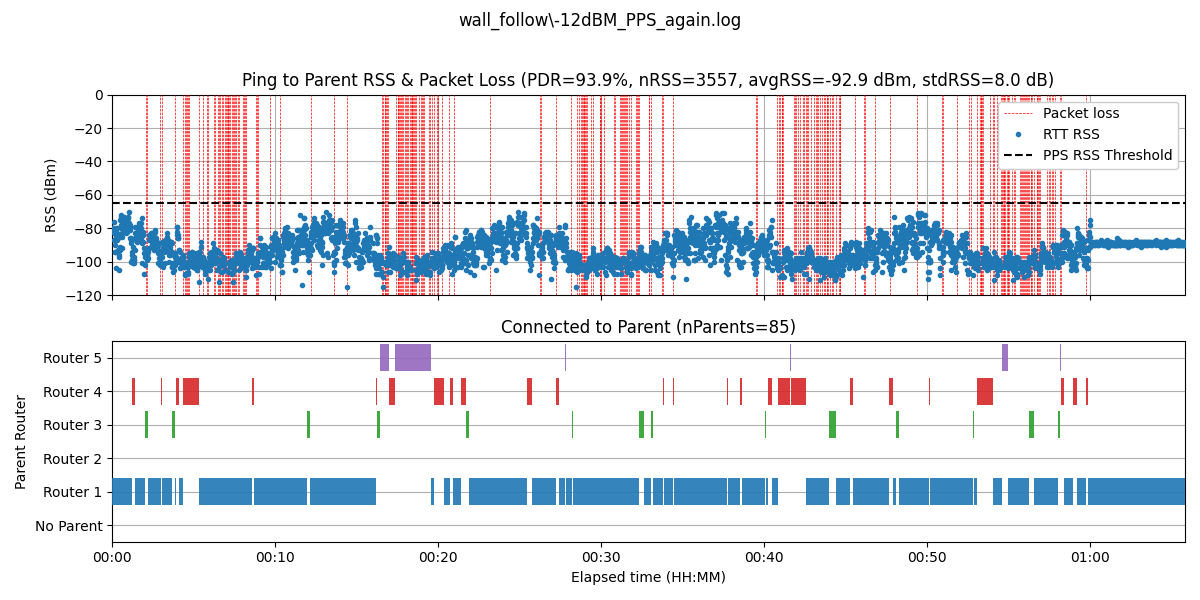
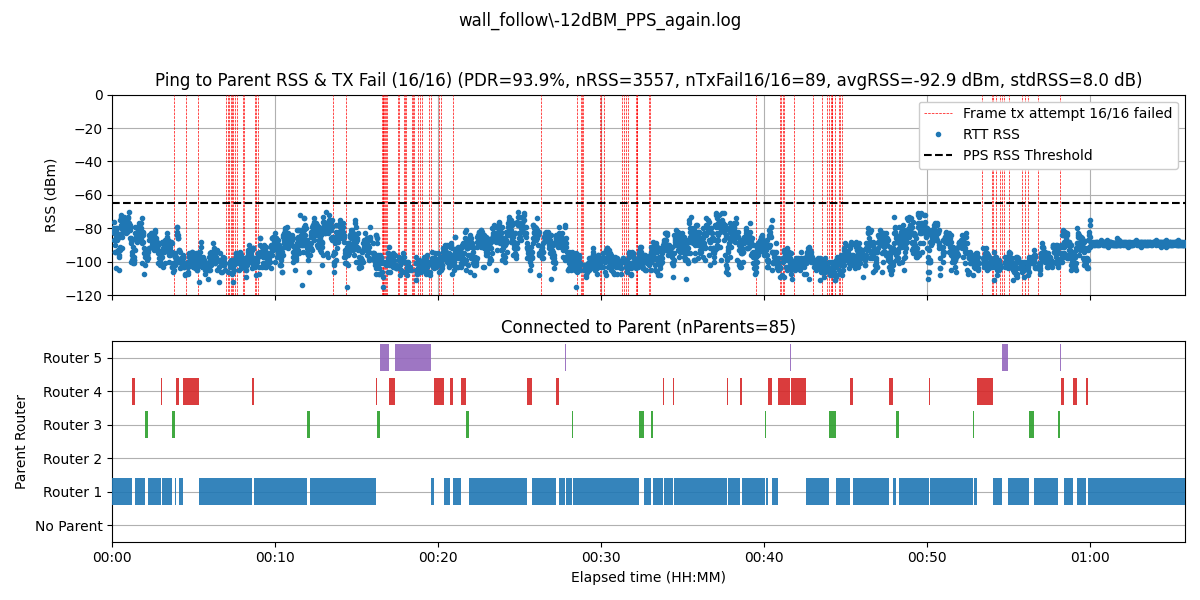
replaced packet loss with 16/16 tx fail

Changed region(s): [[0.1233, 0.12, 0.9867, 0.51], [0.1542, 0.45, 0.2158, 0.51], [0.4625, 0.45, 0.555, 0.48]]

diff --git a/openthread_log_visualizer.py b/openthread_log_visualizer.py
@@ -29,8 +29,8 @@ RSS_YLIM: Optional[Tuple[float, float]] = (-120, 0)  # dBm
 # Horizontal threshold line on RSS subplot
 PPS_RSS_THRESHOLD_DBM: float = -65.0
 
-# Packet-loss "rug" settings (fraction of y-range at the top)
-LOSS_RUG_FRACTION: float = 1  # fraction of y-range at top
+# TX-failed "rug" settings (fraction of y-range at the top)
+TXFAIL_RUG_FRACTION: float = 1  # fraction of y-range at top
 
 # Legend styling
 LEGEND_FRAME_ALPHA: float = 1.0
@@ -47,7 +47,6 @@ TRIM_WINDOW_SECONDS: float = 2 * 60 * 60  # exactly 2 hours
 
 # Toggle: enable/disable the top RTT subplot
 SHOW_RTT_SUBPLOT: bool = False
-
 
 
 # -----------------------------------------------------------------------------
@@ -202,7 +201,9 @@ def _convert_metrics_timestamps_to_relative_seconds(metrics: LogMetrics) -> None
     ts_attr_names = [
         "ping_rtt_timestamps",
         "ping_rss_timestamps",
-        "ping_packet_loss_timestamps",
+        # REPLACED: packet loss timestamps removed from the plot pipeline
+        # "ping_packet_loss_timestamps",
+        "mac_frame_tx_attempt_16_16_failed_timestamps",
         "parent_router_from_rloc16_transition_timestamps",
         "parent_rloc16_from_query_timestamps",
     ]
@@ -328,7 +329,9 @@ def _rebase_timestamps(metrics: LogMetrics, offset: float) -> None:
     ts_attr_names = [
         "ping_rtt_timestamps",
         "ping_rss_timestamps",
-        "ping_packet_loss_timestamps",
+        # REPLACED: packet loss removed from plot pipeline
+        # "ping_packet_loss_timestamps",
+        "mac_frame_tx_attempt_16_16_failed_timestamps",
         "parent_router_from_rloc16_transition_timestamps",
         "parent_rloc16_from_query_timestamps",
     ]
@@ -348,7 +351,7 @@ def _trim_metrics_centered_to_window(metrics: LogMetrics, window_seconds: float)
     ts_attr_names = [
         "ping_rtt_timestamps",
         "ping_rss_timestamps",
-        "ping_packet_loss_timestamps",
+        "mac_frame_tx_attempt_16_16_failed_timestamps",
         "parent_router_from_rloc16_transition_timestamps",
         "parent_rloc16_from_query_timestamps",
     ]
@@ -398,9 +401,9 @@ def _trim_metrics_centered_to_window(metrics: LogMetrics, window_seconds: float)
         window_end,
     )
 
-    # Packet loss (timestamps only)
-    metrics.ping_packet_loss_timestamps = _filter_t(
-        [float(t) for t in getattr(metrics, "ping_packet_loss_timestamps", [])],
+    # TX failed 16/16 (timestamps only)
+    metrics.mac_frame_tx_attempt_16_16_failed_timestamps = _filter_t(
+        [float(t) for t in getattr(metrics, "mac_frame_tx_attempt_16_16_failed_timestamps", [])],
         window_start,
         window_end,
     )
@@ -460,10 +463,14 @@ def plot_rtt(ax, metrics: LogMetrics) -> None:
     ax.set_ylim(0.0, upper)
 
 
-def plot_rss_and_loss(ax, metrics: LogMetrics) -> None:
+def plot_rss_and_txfail(ax, metrics: LogMetrics) -> None:
+    """
+    RSS scatter + vertical 'rug' for Frame tx attempt 16/16 failed events.
+    (Replaces the prior packet-loss rug.)
+    """
     ts_rss = metrics.ping_rss_timestamps
     rss = metrics.ping_rss_dbm_values
-    loss_ts = metrics.ping_packet_loss_timestamps
+    txfail_ts = getattr(metrics, "mac_frame_tx_attempt_16_16_failed_timestamps", [])
 
     if RSS_YLIM is not None:
         y_min, y_max = RSS_YLIM
@@ -479,18 +486,19 @@ def plot_rss_and_loss(ax, metrics: LogMetrics) -> None:
 
     ax.set_ylim(y_min, y_max)
 
-    if loss_ts:
+    # TX failed 16/16 rug (vertical markers)
+    if txfail_ts:
         y_range = y_max - y_min
-        rug_bottom = y_max - (LOSS_RUG_FRACTION * y_range)
+        rug_bottom = y_max - (TXFAIL_RUG_FRACTION * y_range)
         rug_top = y_max
         ax.vlines(
-            loss_ts,
+            txfail_ts,
             rug_bottom,
             rug_top,
             colors="red",
             linestyles="--",
             linewidth=0.5,
-            label="Packet loss",
+            label="Frame tx attempt 16/16 failed",
             zorder=6,
         )
 
@@ -514,14 +522,17 @@ def plot_rss_and_loss(ax, metrics: LogMetrics) -> None:
 
     pdr = _overall_pdr(metrics)
     n_rss = len(rss)
+    n_txfail = len(txfail_ts)
     mu, sigma = _mean_std(rss)
 
-    title = "Ping to Parent RSS & Packet Loss"
+    title = "Ping to Parent RSS & TX Fail (16/16)"
     suffix_parts: List[str] = []
     if pdr is not None:
         suffix_parts.append(f"PDR={pdr:.1f}%")
     if n_rss > 0:
         suffix_parts.append(f"nRSS={n_rss}")
+    if n_txfail > 0:
+        suffix_parts.append(f"nTxFail16/16={n_txfail}")
     if mu is not None and sigma is not None:
         suffix_parts.append(f"avgRSS={mu:.1f} dBm, stdRSS={sigma:.1f} dB")
     if suffix_parts:
@@ -580,7 +591,7 @@ def plot_parents(ax, metrics: LogMetrics, *, end_time: Optional[float] = None) -
         for name in (
             "ping_rtt_timestamps",
             "ping_rss_timestamps",
-            "ping_packet_loss_timestamps",
+            "mac_frame_tx_attempt_16_16_failed_timestamps",
             "parent_router_from_rloc16_transition_timestamps",
             "parent_rloc16_from_query_timestamps",
         ):
@@ -697,7 +708,7 @@ def process_log_file(
     has_any = (
         (show_rtt and bool(metrics.ping_rtt_timestamps))
         or bool(metrics.ping_rss_timestamps)
-        or bool(metrics.ping_packet_loss_timestamps)
+        or bool(getattr(metrics, "mac_frame_tx_attempt_16_16_failed_timestamps", []))
         or bool(getattr(metrics, "parent_router_from_rloc16_transition_timestamps", []))
         or bool(getattr(metrics, "parent_rloc16_from_query_timestamps", []))
     )
@@ -714,7 +725,7 @@ def process_log_file(
         fig, axes = plt.subplots(nrows=2, ncols=1, sharex=True, figsize=(12, 6))
         ax_rss, ax_parent = axes
 
-    plot_rss_and_loss(ax_rss, metrics)
+    plot_rss_and_txfail(ax_rss, metrics)
 
     # If we successfully trimmed to a 2-hour window, force parent bars to extend to that window end.
     parent_end = None
@@ -845,4 +856,3 @@ if __name__ == "__main__":
         show_rtt = False
 
     main(show=args.show, show_rtt=show_rtt)
-
